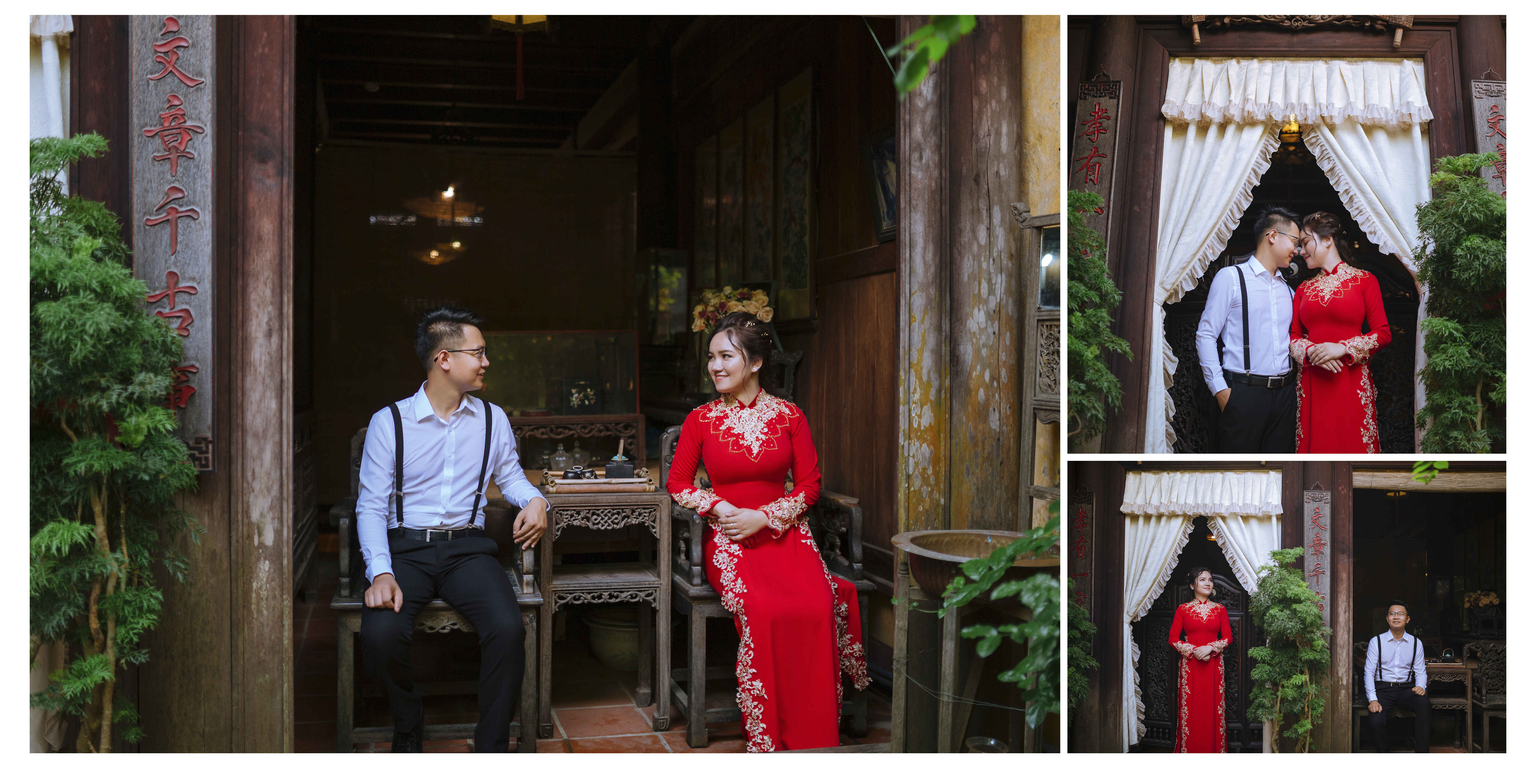
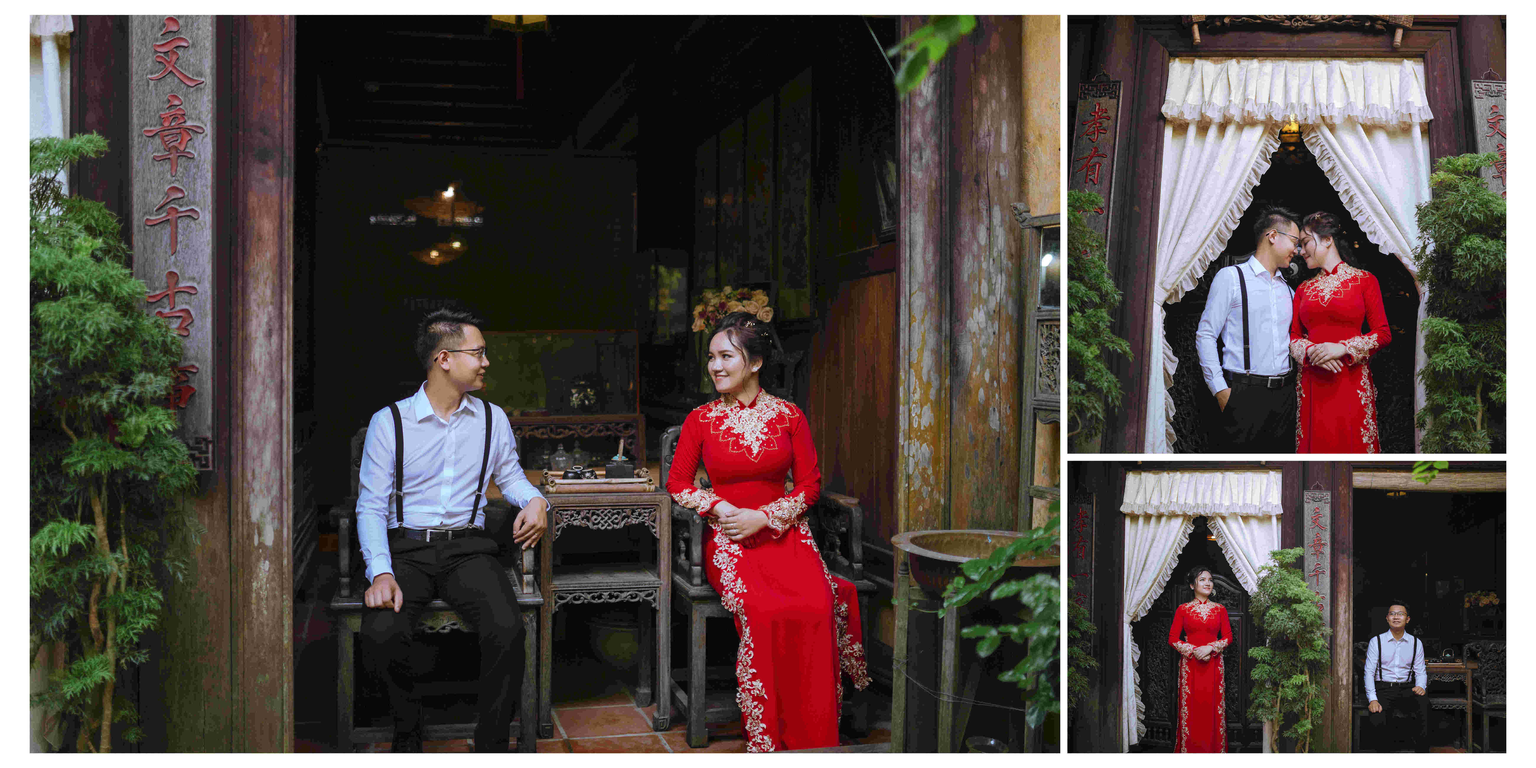
reduce image size

diff --git a/index.html b/index.html
@@ -146,10 +146,6 @@
 					<div class="mobile-divider"><span></span><i class="fa fa-heart"></i><span></span></div>
 				</div>
 				<div class="col-sm-6" data-scroll-reveal="enter from the right after 0.5s">
-					<!--<img src="images/ann.jpg" class="img-responsive img-circle" alt="" />
-							<span class="img-circle">
-							</span>
-							-->
 					<a href="" class="amgallow img-circle img-responsive"></a>
 					<h5>Quỳnh Phương</h5>
 				</div>
